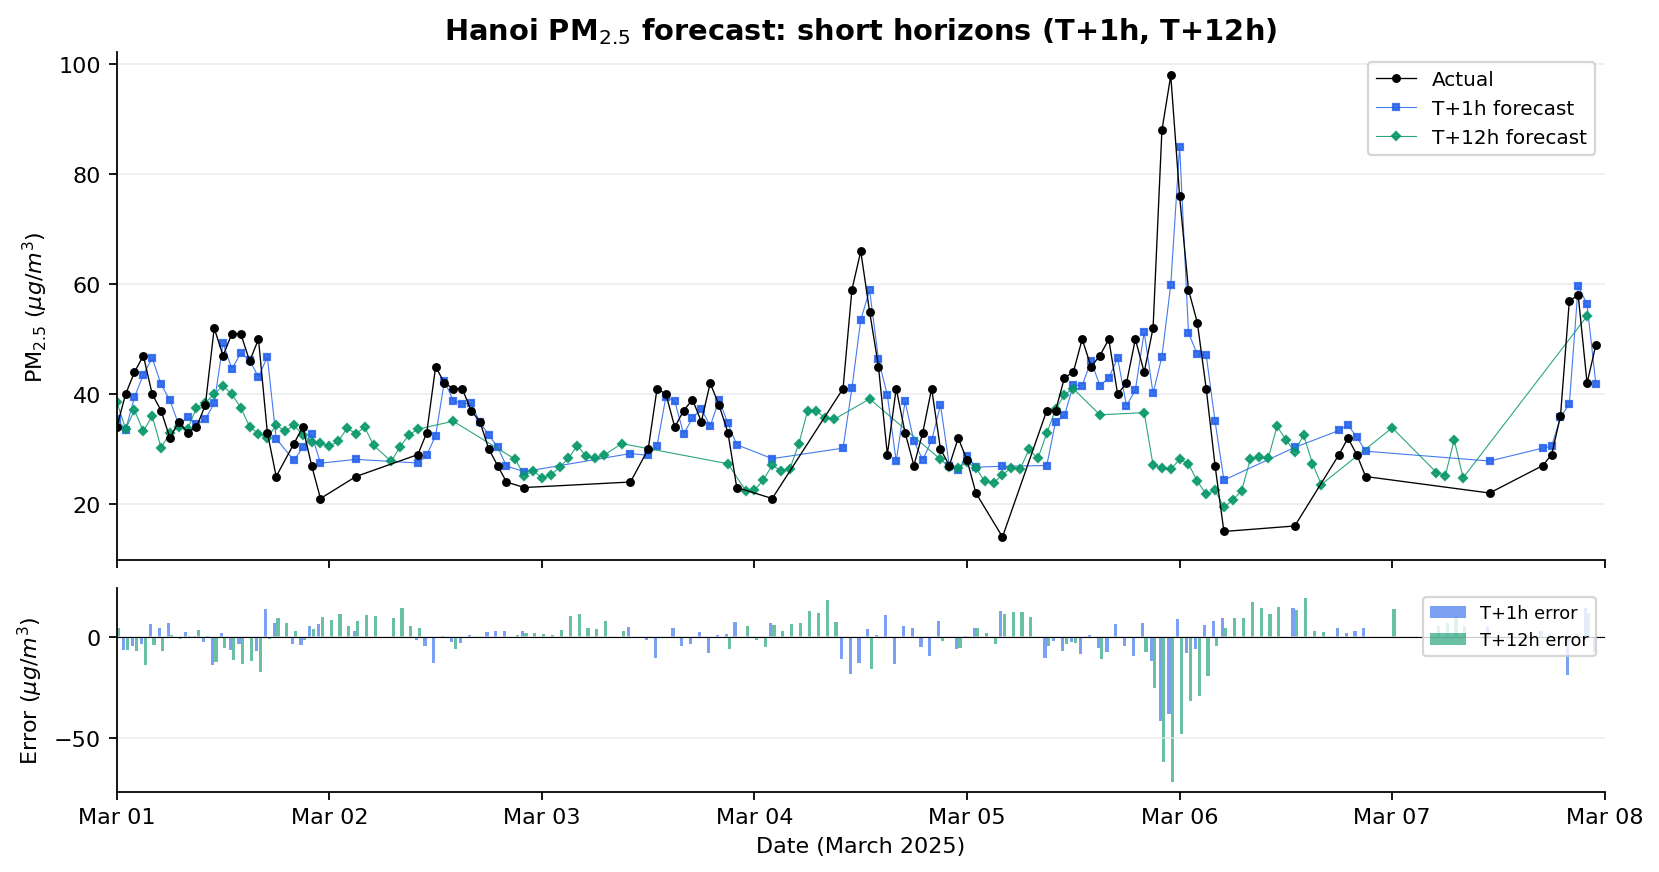
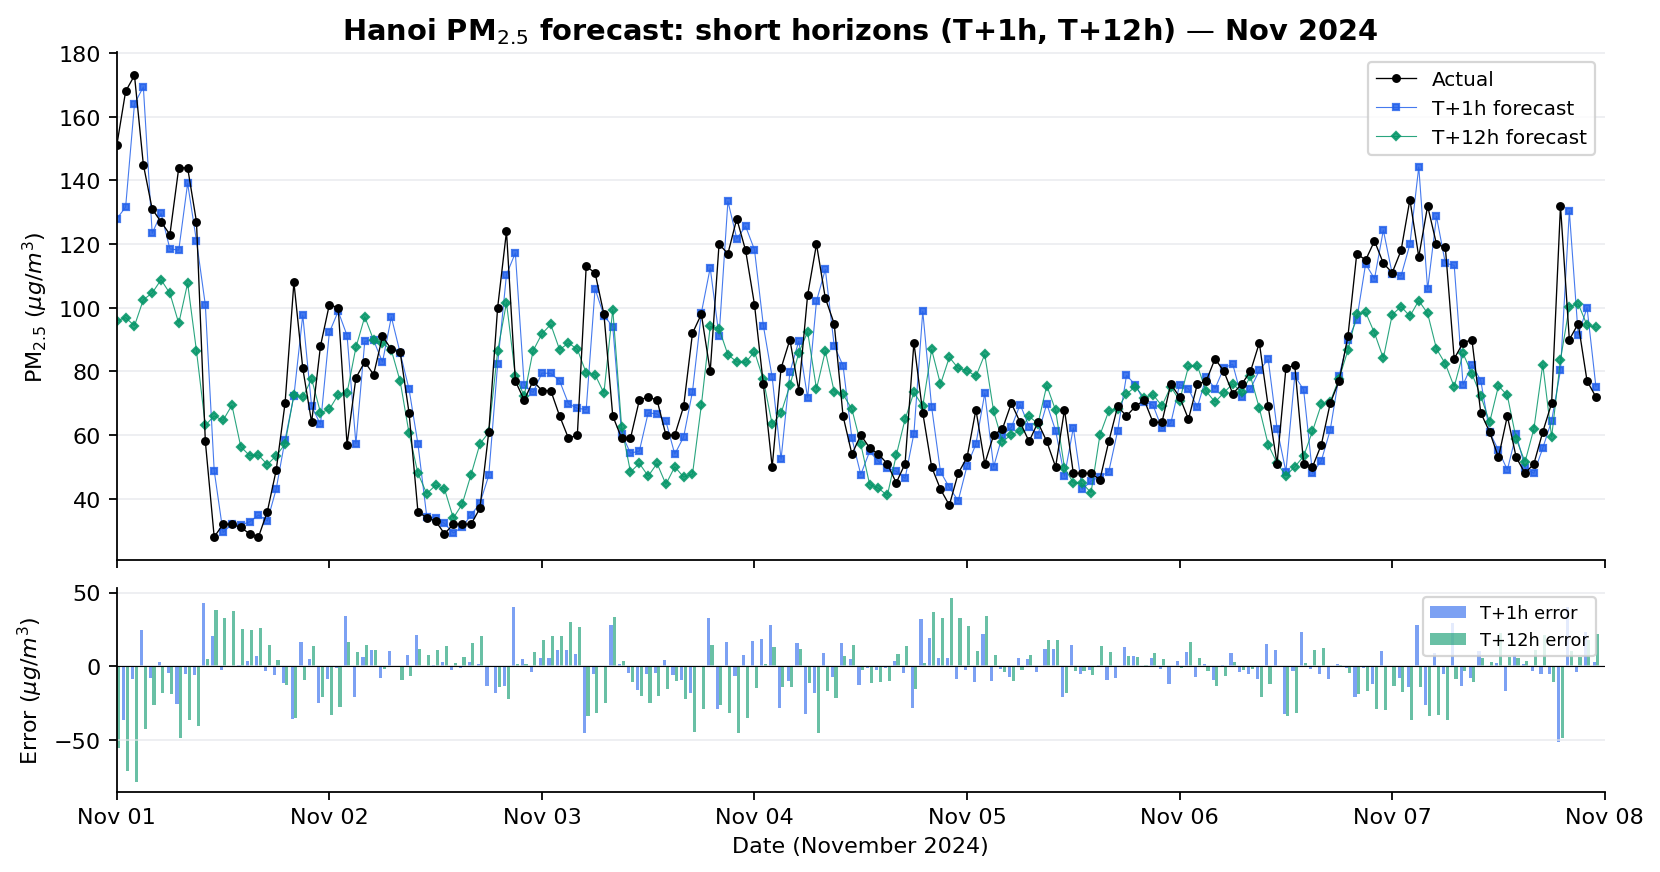
Use Nov 1-8 2024 window with complete hourly coverage (168/168h)
Switched from March 2025 (gaps) to November 2024 which has:
- Every hour measured across all horizons
- Good PM2.5 variability (28–173 µg/m³, pollution season)
- Clear diurnal patterns visible in the data

diff --git a/scripts/generate_forecast_comparison.py b/scripts/generate_forecast_comparison.py
@@ -35,8 +35,8 @@ RANDOM_STATE = 20260607
 DATA_ROOT = Path("tmp/air-quality-analysis-upstream/data")
 OUT_DIR = Path("assets/images/research")
 
-PLOT_START = "2025-03-01"
-PLOT_END = "2025-03-08"
+PLOT_START = "2024-11-01"
+PLOT_END = "2024-11-08"
 
 SHORT_HORIZONS = [1, 12]
 MEDIUM_HORIZONS = [24, 72]
@@ -157,7 +157,7 @@ def plot_panel(results, horizons, title, filename):
 
     ax_err.axhline(0, color="black", linewidth=0.5)
     ax_err.set_ylabel(r"Error ($\mu g/m^3$)")
-    ax_err.set_xlabel("Date (March 2025)")
+    ax_err.set_xlabel("Date (November 2024)")
     ax_err.xaxis.set_major_formatter(mdates.DateFormatter("%b %d"))
     ax_err.xaxis.set_major_locator(mdates.DayLocator(interval=1))
     ax_err.legend(loc="upper right", frameon=True, fontsize=8)
@@ -189,12 +189,12 @@ def main():
 
     print("\nGenerating short-horizon chart...")
     plot_panel(results, SHORT_HORIZONS,
-              r"Hanoi PM$_{2.5}$ forecast: short horizons (T+1h, T+12h)",
+              r"Hanoi PM$_{2.5}$ forecast: short horizons (T+1h, T+12h) — Nov 2024",
               "2026-forecast-short-horizon.png")
 
     print("Generating medium-horizon chart...")
     plot_panel(results, MEDIUM_HORIZONS,
-              r"Hanoi PM$_{2.5}$ forecast: medium horizons (T+24h, T+72h)",
+              r"Hanoi PM$_{2.5}$ forecast: medium horizons (T+24h, T+72h) — Nov 2024",
               "2026-forecast-medium-horizon.png")
 
     print("\n" + "=" * 60)

diff --git a/docs/research/hanoi-pm25-forecasting-experiments-2026.md b/docs/research/hanoi-pm25-forecasting-experiments-2026.md
@@ -10,10 +10,10 @@ description: "A 2026 single-station forecasting study for Hanoi PM$\_{2.5}$ usin
 # Hanoi PM$\_{2.5}$ Forecasting Experiments (2026)
 
 ![Hanoi PM2.5 forecast short horizons](/assets/images/research/2026-forecast-short-horizon.png)
-*Short-horizon forecasts (T+1h, T+12h) vs actual PM$\_{2.5}$, 1–8 March 2025. Bottom panel shows prediction error per hour.*
+*Short-horizon forecasts (T+1h, T+12h) vs actual PM$\_{2.5}$, 1–8 November 2024 (168 consecutive hours). Bottom panel shows prediction error per hour.*
 
 ![Hanoi PM2.5 forecast medium horizons](/assets/images/research/2026-forecast-medium-horizon.png)
-*Medium-horizon forecasts (T+24h, T+72h) vs actual. Bottom panel shows how error grows with lead time.*
+*Medium-horizon forecasts (T+24h, T+72h) vs actual, same period. Bottom panel shows how error grows with lead time.*
 
 {: .note }
 This page adapts a June 2026 research writeup into site format for local Jekyll publishing. The underlying study evaluates single-station PM$\_{2.5}$ forecasting for Hanoi across six lead times using hourly data from 2015-01-01 through 2025-04-09.